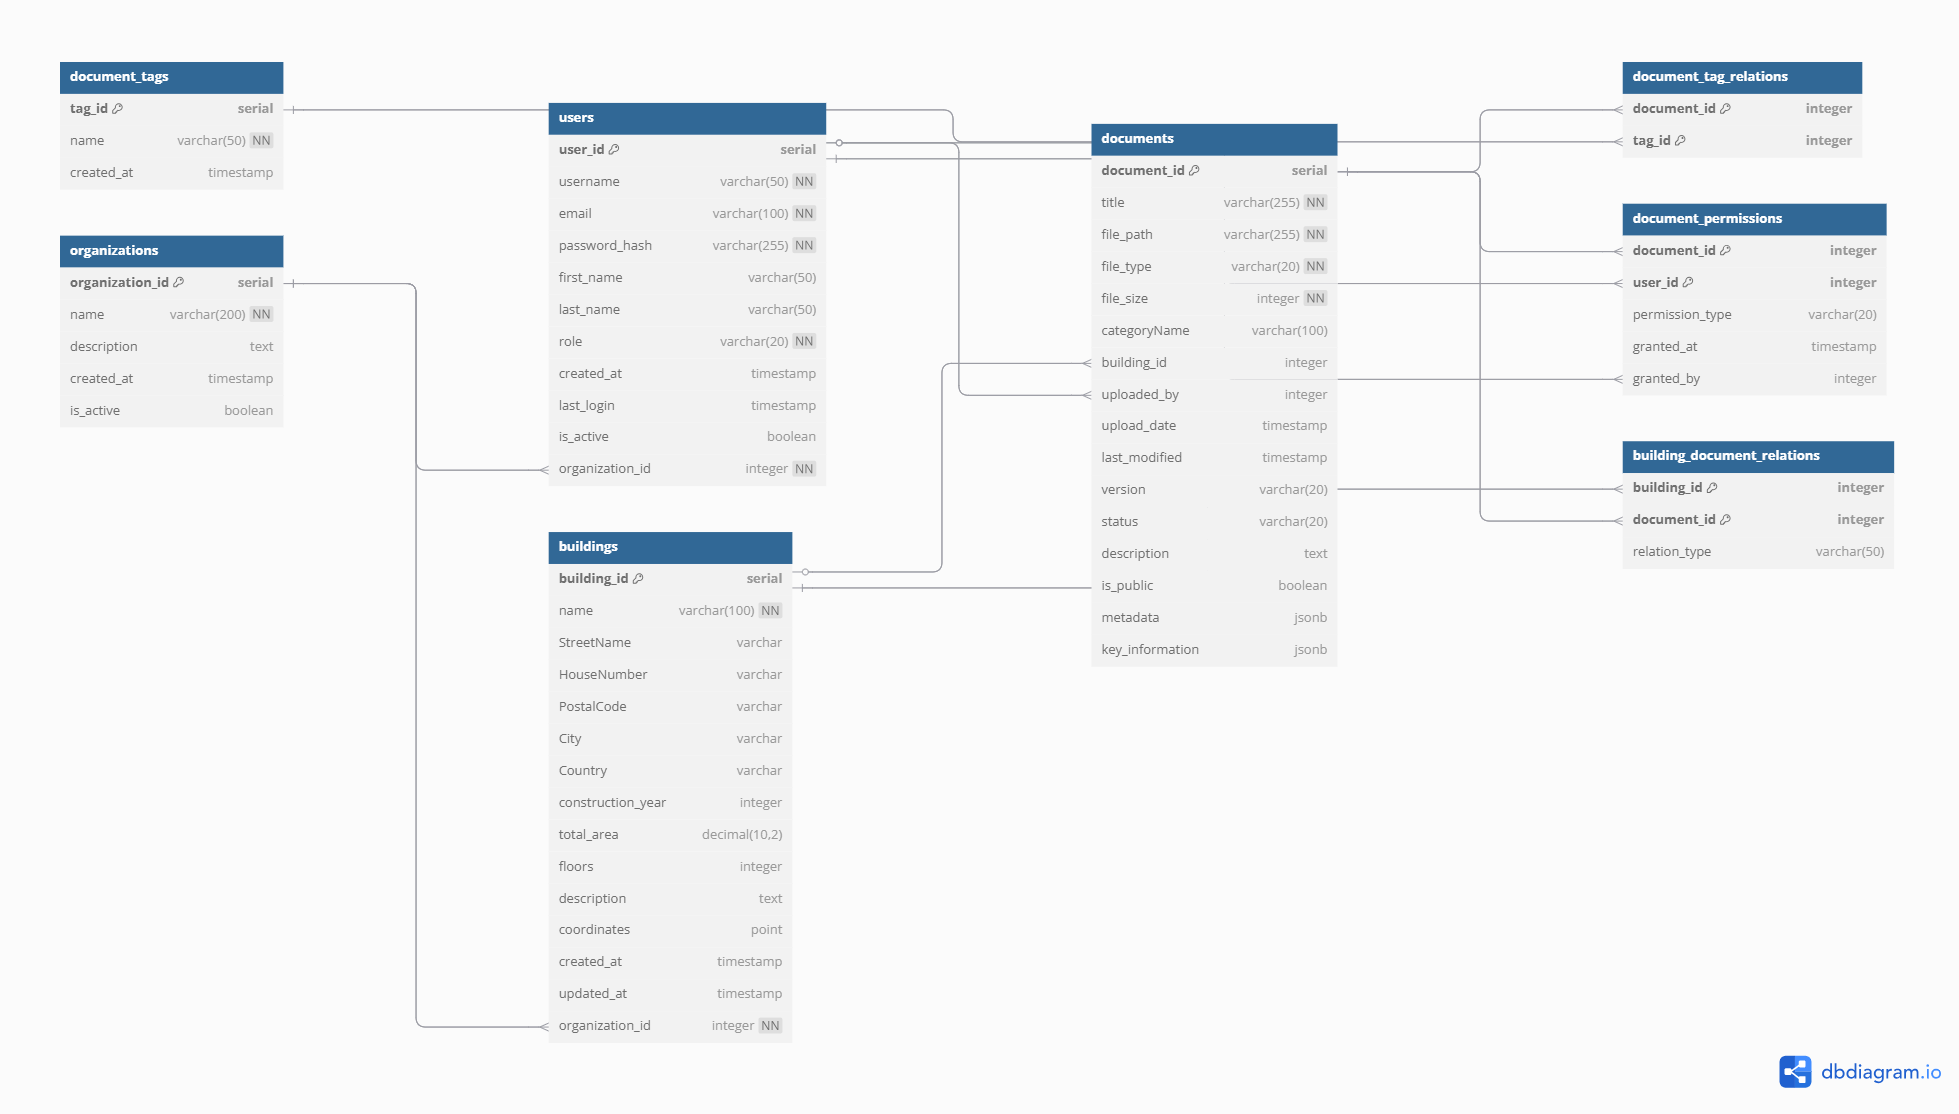
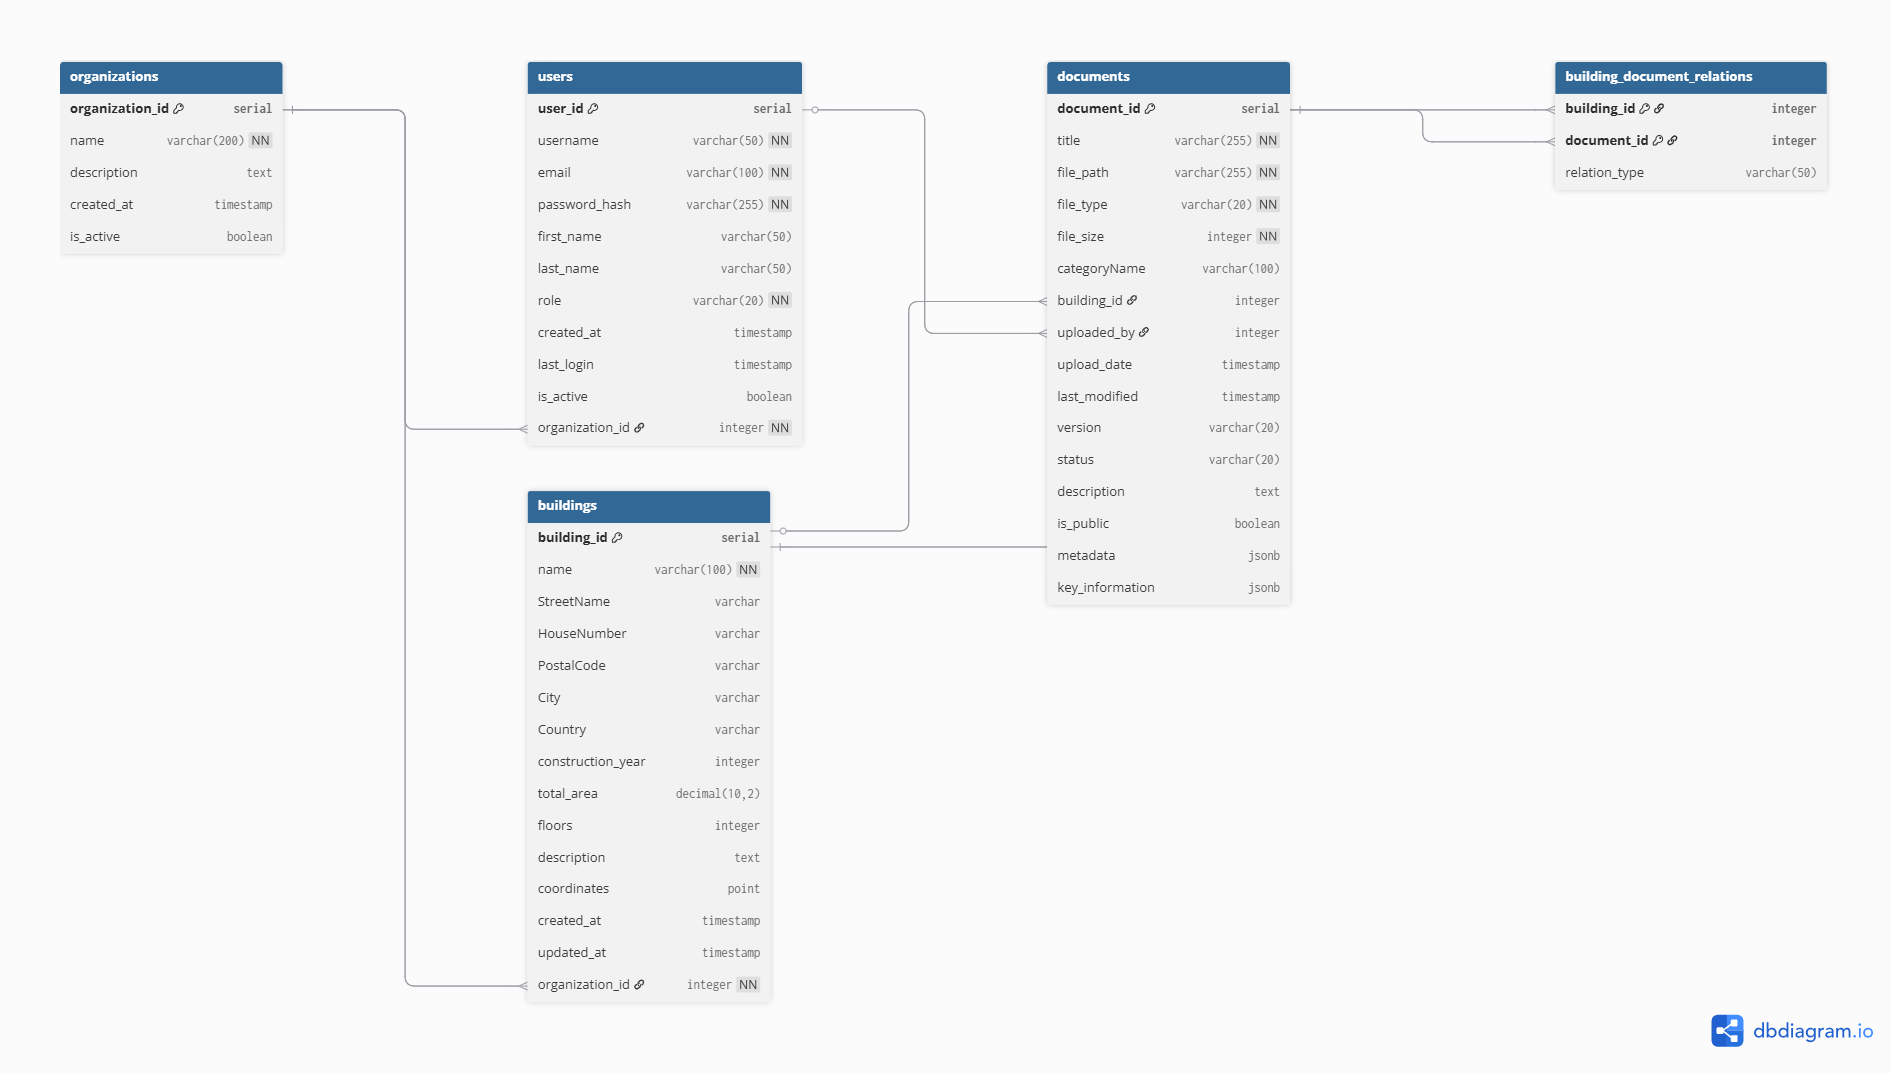
Feature/remove unused tables and fields from database (#280)

Pull request: Feature/remove unused tables and fields from database
Cleanup: Remove Unused Document Tables and Fields
This PR removes obsolete tables (DocumentTags, DocumentTagRelations, DocumentPermissions) and redundant fields (GroupId, etc.) from the database and EF Core models. It also updates the schema and ER diagram accordingly.

-->What was done:

->Dropped unused tables and fields via EF migration
->Cleaned up models, DbContext, services, and controllers
->Removed references in schema.sql
->Updated ER diagram

--> How to test:

->Run dotnet ef database update
->Verify no errors on startup or document-related APIs
->Check that removed models and fields no longer appear in code, DB, or schema

diff --git a/BitAndBeam/backend/src/Migrations/20250711210557_RemoveUnusedDocumentTables.cs b/BitAndBeam/backend/src/Migrations/20250711210557_RemoveUnusedDocumentTables.cs
@@ -1,0 +1,143 @@
+using System;
+using System.Text.Json;
+using Microsoft.EntityFrameworkCore.Migrations;
+using Npgsql.EntityFrameworkCore.PostgreSQL.Metadata;
+
+#nullable disable
+
+namespace BitAndBeam.Migrations
+{
+    /// <inheritdoc />
+    public partial class RemoveUnusedDocumentTables : Migration
+    {
+        /// <inheritdoc />
+        protected override void Up(MigrationBuilder migrationBuilder)
+        {
+
+            migrationBuilder.Sql("DROP TABLE IF EXISTS \"DocumentTags\" CASCADE;");
+            migrationBuilder.Sql("DROP TABLE IF EXISTS \"DocumentTagRelations\" CASCADE;");
+            migrationBuilder.Sql("DROP TABLE IF EXISTS \"DocumentPermissions\" CASCADE;");
+
+
+            migrationBuilder.AlterColumn<JsonDocument>(
+                name: "KeyInformation",
+                table: "Documents",
+                type: "jsonb",
+                nullable: true,
+                oldClrType: typeof(string),
+                oldType: "jsonb");
+
+        }
+
+        /// <inheritdoc />
+        protected override void Down(MigrationBuilder migrationBuilder)
+        {
+            migrationBuilder.DropColumn(
+                name: "OrganizationId",
+                table: "Documents");
+
+            migrationBuilder.AlterColumn<string>(
+                name: "KeyInformation",
+                table: "Documents",
+                type: "jsonb",
+                nullable: false,
+                defaultValue: "",
+                oldClrType: typeof(JsonDocument),
+                oldType: "jsonb",
+                oldNullable: true);
+
+            migrationBuilder.AddColumn<string>(
+                name: "GroupId",
+                table: "Documents",
+                type: "text",
+                nullable: false,
+                defaultValue: "");
+
+            migrationBuilder.CreateTable(
+                name: "DocumentPermissions",
+                columns: table => new
+                {
+                    DocumentId = table.Column<int>(type: "integer", nullable: false),
+                    UserId = table.Column<int>(type: "integer", nullable: false),
+                    GrantedBy = table.Column<int>(type: "integer", nullable: true),
+                    GrantedAt = table.Column<DateTime>(type: "timestamp with time zone", nullable: false),
+                    PermissionType = table.Column<string>(type: "text", nullable: false)
+                },
+                constraints: table =>
+                {
+                    table.PrimaryKey("PK_DocumentPermissions", x => new { x.DocumentId, x.UserId });
+                    table.ForeignKey(
+                        name: "FK_DocumentPermissions_Documents_DocumentId",
+                        column: x => x.DocumentId,
+                        principalTable: "Documents",
+                        principalColumn: "DocumentId",
+                        onDelete: ReferentialAction.Cascade);
+                    table.ForeignKey(
+                        name: "FK_DocumentPermissions_Users_GrantedBy",
+                        column: x => x.GrantedBy,
+                        principalTable: "Users",
+                        principalColumn: "UserId",
+                        onDelete: ReferentialAction.SetNull);
+                    table.ForeignKey(
+                        name: "FK_DocumentPermissions_Users_UserId",
+                        column: x => x.UserId,
+                        principalTable: "Users",
+                        principalColumn: "UserId",
+                        onDelete: ReferentialAction.Cascade);
+                });
+
+            migrationBuilder.CreateTable(
+                name: "DocumentTags",
+                columns: table => new
+                {
+                    TagId = table.Column<int>(type: "integer", nullable: false)
+                        .Annotation("Npgsql:ValueGenerationStrategy", NpgsqlValueGenerationStrategy.IdentityByDefaultColumn),
+                    CreatedAt = table.Column<DateTime>(type: "timestamp with time zone", nullable: false),
+                    Name = table.Column<string>(type: "text", nullable: false)
+                },
+                constraints: table =>
+                {
+                    table.PrimaryKey("PK_DocumentTags", x => x.TagId);
+                });
+
+            migrationBuilder.CreateTable(
+                name: "DocumentTagRelations",
+                columns: table => new
+                {
+                    DocumentId = table.Column<int>(type: "integer", nullable: false),
+                    TagId = table.Column<int>(type: "integer", nullable: false)
+                },
+                constraints: table =>
+                {
+                    table.PrimaryKey("PK_DocumentTagRelations", x => new { x.DocumentId, x.TagId });
+                    table.ForeignKey(
+                        name: "FK_DocumentTagRelations_DocumentTags_TagId",
+                        column: x => x.TagId,
+                        principalTable: "DocumentTags",
+                        principalColumn: "TagId",
+                        onDelete: ReferentialAction.Cascade);
+                    table.ForeignKey(
+                        name: "FK_DocumentTagRelations_Documents_DocumentId",
+                        column: x => x.DocumentId,
+                        principalTable: "Documents",
+                        principalColumn: "DocumentId",
+                        onDelete: ReferentialAction.Cascade);
+                });
+
+            migrationBuilder.CreateIndex(
+                name: "IX_DocumentPermissions_GrantedBy",
+                table: "DocumentPermissions",
+                column: "GrantedBy");
+
+            migrationBuilder.CreateIndex(
+                name: "IX_DocumentPermissions_UserId",
+                table: "DocumentPermissions",
+                column: "UserId");
+
+            migrationBuilder.CreateIndex(
+                name: "IX_DocumentTagRelations_TagId",
+                table: "DocumentTagRelations",
+                column: "TagId");
+        }
+    }
+}

diff --git a/BitAndBeam/backend/src/Data/AppDbContext.cs b/BitAndBeam/backend/src/Data/AppDbContext.cs
@@ -10,11 +10,9 @@ namespace BitAndBeam.Data
 
         public DbSet<User> Users { get; set; }
         public DbSet<Building> Buildings { get; set; }
-        // public DbSet<DocumentCategory> DocumentCategories { get; set; }
+
         public DbSet<Document> Documents { get; set; }
-        public DbSet<DocumentTag> DocumentTags { get; set; }
-        public DbSet<DocumentTagRelation> DocumentTagRelations { get; set; }
-        public DbSet<DocumentPermission> DocumentPermissions { get; set; }
+
         public DbSet<BuildingDocumentRelation> BuildingDocumentRelations { get; set; }
         public DbSet<Organization> Organizations { get; set; }
 
@@ -37,35 +35,9 @@ namespace BitAndBeam.Data
             modelBuilder.Entity<User>()
                 .HasIndex(u => u.Email).IsUnique();
 
-            // DocumentTagRelation (many-to-many)
-            modelBuilder.Entity<DocumentTagRelation>()
-                .HasKey(dtr => new { dtr.DocumentId, dtr.TagId });
 
-            modelBuilder.Entity<DocumentTagRelation>()
-                .HasOne(dtr => dtr.Document)
-                .WithMany(d => d.DocumentTagRelations)
-                .HasForeignKey(dtr => dtr.DocumentId);
-            modelBuilder.Entity<DocumentTagRelation>()
-                .HasOne(dtr => dtr.Tag)
-                .WithMany(t => t.DocumentTagRelations)
-                .HasForeignKey(dtr => dtr.TagId);
 
-            // DocumentPermission (many-to-many)
-            modelBuilder.Entity<DocumentPermission>()
-                .HasKey(dp => new { dp.DocumentId, dp.UserId });
-            modelBuilder.Entity<DocumentPermission>()
-                .HasOne(dp => dp.Document)
-                .WithMany(d => d.DocumentPermissions)
-                .HasForeignKey(dp => dp.DocumentId);
-            modelBuilder.Entity<DocumentPermission>()
-                .HasOne(dp => dp.User)
-                .WithMany(u => u.DocumentPermissions)
-                .HasForeignKey(dp => dp.UserId);
-            modelBuilder.Entity<DocumentPermission>()
-                .HasOne(dp => dp.GrantedByUser)
-                .WithMany()
-                .HasForeignKey(dp => dp.GrantedBy)
-                .OnDelete(DeleteBehavior.SetNull);
+
 
             // BuildingDocumentRelation (many-to-many)
             modelBuilder.Entity<BuildingDocumentRelation>()
@@ -98,7 +70,6 @@ namespace BitAndBeam.Data
             modelBuilder.Entity<Document>()
                 .Property(d => d.CategoryName);
 
-            modelBuilder.Ignore<DocumentTag>();
 
             // Configure JSONB columns for Document
             modelBuilder.Entity<Document>()

diff --git a/BitAndBeam/backend/src/Models/Document.cs b/BitAndBeam/backend/src/Models/Document.cs
@@ -26,8 +26,6 @@ namespace BitAndBeam.Models
         public DateTime UploadedAt { get; set; }
         public int OrganizationId { get; set; }
         public User Uploader { get; set; }
-        public ICollection<DocumentTagRelation> DocumentTagRelations { get; set; }
-        public ICollection<DocumentPermission> DocumentPermissions { get; set; }
         public ICollection<BuildingDocumentRelation> BuildingDocumentRelations { get; set; }
     }
 }

diff --git a/BitAndBeam/backend/src/Models/User.cs b/BitAndBeam/backend/src/Models/User.cs
@@ -20,7 +20,6 @@ namespace BitAndBeam.Models
         public Organization Organization { get; set; }
 
         public ICollection<Document> UploadedDocuments { get; set; }
-        public ICollection<DocumentPermission> DocumentPermissions { get; set; }
     }
 }
 

diff --git a/Documentation/database/README.md b/Documentation/database/README.md
@@ -8,11 +8,8 @@ The database is designed using PostgreSQL and includes the following core tables
 
 - **Users**: Stores user information and authentication details
 - **Buildings**: Contains information about buildings in the system
-- **Document Categories**: Hierarchical categories for document organization
-- **Documents**: The main table storing document metadata and references to files
-- **Document Tags**: Tagging system for documents
-- **Document Versions**: Version history for documents
-- **Document Permissions**: Access control for documents
+- **Documents**: The main table storing document metadata and references to files 
+
 
 ## Entity Relationship Diagram
 